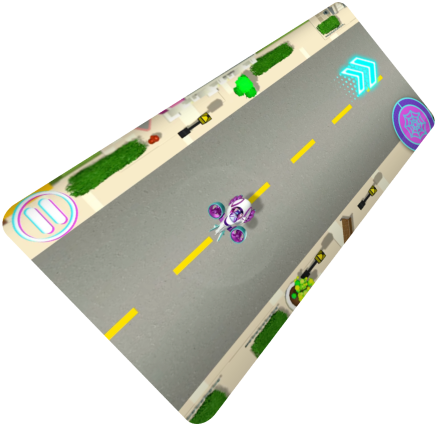
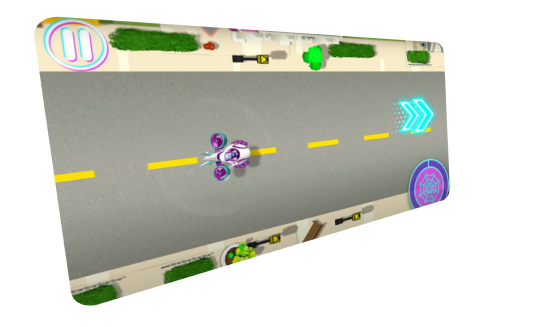
Terminadas las animaciones de la sección spidey-white

diff --git a/TP4/js/app.js b/TP4/js/app.js
@@ -4,6 +4,15 @@ const preventScroll = (e) => {
   return false;
 }
 
+/**Detecta si un elemento esta dentro del viewport */
+function isElementInViewport(el) {
+  var rect = el.getBoundingClientRect();
+  return (
+    rect.top >= 0 &&
+    rect.bottom <= (window.innerHeight || document.documentElement.clientHeight)
+  );
+}
+
 //MAIN HEROS PARALLAX
 const spiderWhite = document.querySelector('.spider-white');
 const spiderNormal = document.querySelector('.spider-normal');
@@ -53,6 +62,33 @@ window.addEventListener('scroll', function (e) {
   })
 })
 
+//SPIDER-WHITE SECTION
+const spiderWhiteSection = this.document.querySelector('.spider-white-section');
+const spiderWhiteDivs = [];
+document.querySelectorAll('.spider-white-section .container div').forEach(div => {
+  let object = {
+    div: div,
+    originalTop: parseInt(getComputedStyle(div, null).getPropertyValue("top").slice(0, -2)),
+  }
+  spiderWhiteDivs.push(object);
+})
+
+window.addEventListener('scroll', function (e) {
+  console.log(isElementInViewport(spiderWhiteSection));
+  if (isElementInViewport(spiderWhiteSection)) {
+    for (let divObject of spiderWhiteDivs) {
+      const top = divObject.originalTop;
+      const y = window.scrollY;
+      divObject.div.classList.add('active');
+      divObject.div.style.top = `${((y)-2000) * 0.15 + top}px`;
+    }
+  } else {
+    for (let divObject of spiderWhiteDivs) {
+      divObject.div.classList.remove('active');
+    }
+  }
+});
+
 
 //AVENGERS SECTION
 const div = document.querySelector('.avengers-section').parentElement;
@@ -60,7 +96,7 @@ const images = [];
 
 div.querySelectorAll('img').forEach(img => {
   let i = {
-    img,
+    img: img,
     depthX: img.getAttribute('data-depth-x'),
     depthY: img.getAttribute('data-depth-y')
   }
@@ -70,33 +106,10 @@ div.querySelectorAll('img').forEach(img => {
 div.addEventListener('mousemove', (e) => {
   const x = e.clientX;
   const y = e.clientY;
-  for(let img of images){
-    img.img.style.transform = `translateX(${x * img.depthX}px) translateY(${y * img.depthY}px)`;
+  for (let imageObject of images) {
+    imageObject.img.style.transform = `translateX(${x * imageObject.depthX}px) translateY(${y * imageObject.depthY}px)`;
   }
 });
-
-
-window.addEventListener('scroll', function (e) {
-  const section = this.document.querySelector('.spider-white-section');
-  if (isElementInViewport(section)) {
-    const divs = this.document.querySelectorAll('.spider-white-section .container div');
-    divs.forEach((div, index) => {
-      const y = window.scrollY;
-      div.style.transform = `translateY(${(y) * 0.03}px)`;
-    })
-  }
-})
-
-/**Detecta si un elemento esta dentro del viewport */
-function isElementInViewport(el) {
-  var rect = el.getBoundingClientRect();
-  return (
-    rect.top >= 0 &&
-    rect.left >= 0 &&
-    rect.bottom <= (window.innerHeight || document.documentElement.clientHeight) &&
-    rect.right <= (window.innerWidth || document.documentElement.clientWidth)
-  );
-}
 
 /**MORE FRIENDS SECTION */
 window.addEventListener('scroll', (e) => {

diff --git a/TP4/css/styles.css b/TP4/css/styles.css
@@ -192,6 +192,71 @@ p {
   z-index: 1;
 }
 
+.spider-white-section div div {
+  position: absolute;
+  transition: 0.5s ease;
+  cursor: pointer;
+  width: 450px;
+  height: 220px;
+  overflow: visible;
+}
+
+.spider-white-section div div.active {
+  transition: 0.5s ease;
+}
+
+.spider-white-section div div img {
+  pointer-events: none;
+}
+
+#card-spider-white-1 {
+  top: 295px;
+  left: -550px;
+  z-index: 3;
+  transform: rotateZ(-36deg);
+}
+
+#card-spider-white-1:hover {
+  transform: perspective(800px) rotateY(15deg) rotateZ(-36deg);
+}
+
+#card-spider-white-1.active {
+  transition-delay: 0.2s;
+  left: 50px;
+}
+
+#card-spider-white-2 {
+  top: 75px;
+  left: -570px;
+  z-index: 2;
+  transform: rotateZ(-26deg);
+}
+
+#card-spider-white-2:hover {
+  transform: perspective(800px) rotateY(15deg) rotateZ(-26deg);
+}
+
+#card-spider-white-2.active {
+  transition-delay: 0.1s;
+  left: 30px;
+}
+
+#card-spider-white-3 {
+  top: -105px;
+  left: -570px;
+  transform: rotateZ(-13deg);
+}
+
+#card-spider-white-3:hover {
+  transform: perspective(800px) rotateY(15deg) rotateZ(-13deg);
+}
+
+#card-spider-white-3.active {
+  left: 30px;
+}
+
+
+/*
 .spider-white-section div {
   position: absolute;
   transition: transform 0.5s ease;
@@ -199,6 +264,7 @@ p {
 }
 
 #card-spider-white-1 {
+  transform: rotateY()
   top: 170px;
   left: 50px;
   z-index: 3;
@@ -219,10 +285,7 @@ p {
   transition: transform 0.5s ease;
 }
 
-.spider-white-section .container div img:hover {
-  transform: perspective(800px) rotateY(15deg);
-  cursor: pointer;
-}
+
 
 #card-spider-white-2 img {
   transition-delay: 0.2s;
@@ -231,7 +294,7 @@ p {
 #card-spider-white-3 img {
   transition-delay: 0.4s;
 }
-
+*/
 /*AVENGERS SECTION*/
 .background-avengers {
   background-color: black;
